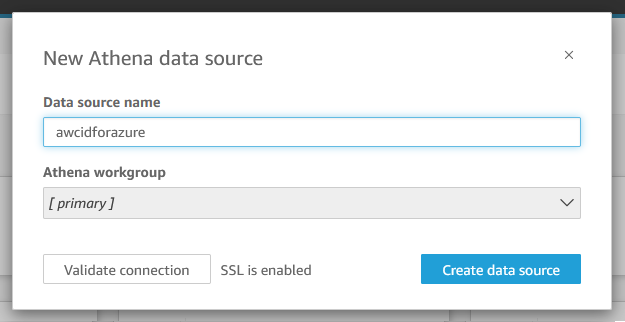
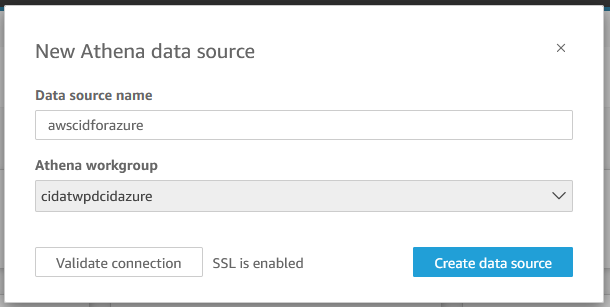
almost finished setup

diff --git a/content/Cost/300_Labs/300_Cloud_Intelligence_Dashboards_for_Azure/2_setup.md b/content/Cost/300_Labs/300_Cloud_Intelligence_Dashboards_for_Azure/2_setup.md
@@ -12,7 +12,7 @@ We've provided a set of deployment templates to speed up the build. Once you com
 The solution you are about to deploy is an example. Use this lab and the accompanying code to design your own solution that meets your specific cost optimization needs.
 {{% /notice %}} 
 
-Deployment is a three stage process. 
+Deployment is a three step process. 
 
 1. Deploy AWS services
 2. Perform a manual run to copy the first batch of data
@@ -20,8 +20,8 @@ Deployment is a three stage process.
 
 There are 2 **(Options)** to deploy AWS Services. Pick the one that suits you.
 
-1. [**AWS CloudFormation**](#CloudFormation-Deployment). We'll guide you through the setup step by step. You will need to setup Azure resources prior to deployment.
-2. [**Hashicorp Terraform**](#terraform-deployment). You will need to be familiar with Terraform and have an existing deployment pipeline. We include an example template showing you how to deploy Azure resources.
+1. [**AWS CloudFormation**](#step-1-option-1-cloudformation-deployment). We'll guide you through the setup step by step. You will need to setup Azure resources prior to deployment.
+2. [**Hashicorp Terraform**](#step-1-option-2-terraform-deployment). You will need to be familiar with Terraform and have an existing deployment pipeline. We include an example template showing you how to deploy Azure resources.
 
 {{% notice note %}}
 If you encounter any errors with the tasks below, head over to the [Observability and Troubleshooting](../3_common_tasks)section.
@@ -39,7 +39,7 @@ If you encounter any errors with the tasks below, head over to the [Observabilit
 * **cid-azure-stack.yaml** CloudFormation template.
 * **cid-azure-dashboard.yaml** Sample QuickSight dashboard
 
-2. Place the files in a new Amazon S3 bucket. CloudFormation will access these files during deployment. Don't use the name in the screenshot below, someone's probably already grabbed it! S3 bucket names need to be globally unique.
+2. Place the files in a new Amazon S3 bucket. CloudFormation will access these files during deployment. Don't use the name in the screenshot below, someone's probably already grabbed it and S3 bucket names need to be globally unique.
 ![Images/cidazure-setup-cfn-s3source](/Cost/300_Cloud_Intelligence_Dashboard_for_Azure/Images/cidazure-setup-cfn-s3source.png?width=1000px)
 
 3. Click into **cid-azure-stack-yaml** and grab the Object URL. You'll need this a moment.
@@ -54,7 +54,7 @@ If you encounter any errors with the tasks below, head over to the [Observabilit
 6. Paste in the Object URL you grabbed earlier into the **Amazon S3 URL** field. Click **Next**
 ![Images/cidazure-setup-cfn-template](/Cost/300_Cloud_Intelligence_Dashboard_for_Azure/Images/cidazure-setup-cfn-template.png?width=1000px)
 
-7. Give the stack a name. The S3 bucket created by the stack will start with the name you enter here, so enter something similar to customer code.
+7. Give the stack a name. An S3 bucket will be created by the stack and start with the name you enter here.
 ![Images/cidazure-setup-cfn-stackname](/Cost/300_Cloud_Intelligence_Dashboard_for_Azure/Images/cidazure-setup-cfn-stackname.png?width=1000px)
 
 8. Let's set values for our parameters. Fill in the **Common Settings** section. Refer to the [Parameters](#parameters) section for guidance.
@@ -79,7 +79,7 @@ If you encounter any errors with the tasks below, head over to the [Observabilit
 16. The deployment will run for a few minutes. Once deployment is complete, you'll see a *CREATE_COMPLETE* message.
 ![Images/cidazure-setup-cfn-stackcomplete](/Cost/300_Cloud_Intelligence_Dashboard_for_Azure/Images/cidazure-setup-cfn-stackcomplete.png?width=1000px)
 
-Great job, you've completed the setup! Now move onto [Manual Run](#manual-run)
+Great job, you've completed the setup! Now move onto [Manual Run](#step-2-initial-manual-run)
 {{% /expand%}}
 
 ### Step 1 (Option-2) Terraform Deployment
@@ -94,7 +94,7 @@ Great job, you've completed the setup! Now move onto [Manual Run](#manual-run)
 * **cid-azure-stack.yaml** CloudFormation template.
 * **cid-azure-dashboard.yaml** Sample QuickSight dashboard
 
-Great job, you've completed the setup! Now move onto [Manual Run](#manual-run)
+Great job, you've completed the setup! Now move onto [Manual Run](#step-2-initial-manual-run)
 
 {{% /expand%}}
 
@@ -102,7 +102,7 @@ Great job, you've completed the setup! Now move onto [Manual Run](#manual-run)
 {{%expand "Click to expand" %}}
 The solution runs automatically at the scheduled times you set in your deployment parameters. When you first deploy you may want to visualize your data straight away. If you've had enough for today and want to stop, feel free to come back tomorrow, this part should complete automatically.
 
-As part of the deployment we created a Resource Group to organize our resources into a single view. This will help you identify resources that were created should you get stuck. To view the Resource Group, browse to the **AWS Resource Groups & Tag Editor service**.
+As part of the deployment we created a Resource Group to organize our resources into a single view. This will help you identify resources that were created should you get stuck. To view the Resource Group, browse to the **AWS Resource Groups & Tag Editor** service.
 ![Images/cidazure-setup-manual-resourcegroup](/Cost/300_Cloud_Intelligence_Dashboard_for_Azure/Images/cidazure-setup-manual-resourcegroup.png?width=600px)
 
 Follow the instructions below to start a manual run.
@@ -148,6 +148,7 @@ Awesome! You've completed the manual run, let's move onto [Dashboard Deployment.
 
 ### Step 3 Dashboard Deployment
 {{%expand "Click to expand" %}}
+
 First up we need to create our Amazon Athena view. 
 
 1. Browse to the **Amazon Athena** service.
@@ -162,7 +163,7 @@ First up we need to create our Amazon Athena view.
 4. Click the **Run** button to run the query. Once complete a new Athena view will be created.
 ![Images/cidazure-setup-dashboard-athenarun](/Cost/300_Cloud_Intelligence_Dashboard_for_Azure/Images/cidazure-setup-dashboard-athenarun.png?width=1000px)
 
-Next let's create our QuickSight dataset.
+Next, let's create our QuickSight dataset.
 
 5. Head over to the **QuickSight** service and select **Datasets**. Click the **New dataset** button
 ![Images/cidazure-setup-dashboard-qsnewdataset](/Cost/300_Cloud_Intelligence_Dashboard_for_Azure/Images/cidazure-setup-dashboard-qsnewdataset.png?width=1000px)
@@ -170,35 +171,87 @@ Next let's create our QuickSight dataset.
 6. Select **Athena** as the Data Source
 ![Images/cidazure-setup-dashboard-qsselectathena](/Cost/300_Cloud_Intelligence_Dashboard_for_Azure/Images/cidazure-setup-dashboard-qsselectathena.png?width=1000px)
 
-7. Give the Data source a name, leave Athena workgroup as *primary* and click **Create data source**.
+7. Give the Data source a name, select the Athena workgroup created by your deployment and click **Create data source**.
 ![Images/cidazure-setup-dashboard-qscreatedata](/Cost/300_Cloud_Intelligence_Dashboard_for_Azure/Images/cidazure-setup-dashboard-qscreatedata.png?width=500px)
 
 8. Select the Glue database created by your deployment and relevant table which will end in *athena_view*. Then click **Edit/Preview data**
 ![Images/cidazure-setup-dashboard-qschoosetable](/Cost/300_Cloud_Intelligence_Dashboard_for_Azure/Images/cidazure-setup-dashboard-qschoosetable.png?width=500px)
 
-9. Check your data appears along with any tag columns you specified. Once done, set the **Query mode to SPICE** and click **save & publish button**.
+9. Check your data appears along with any tag columns you specified. Once done, set the **Query mode to SPICE** and click **save & publish button**. We use Spice to minimize the loading times for visuals.
 
 ![Images/cidazure-setup-dashboard-qssave](/Cost/300_Cloud_Intelligence_Dashboard_for_Azure/Images/cidazure-setup-dashboard-qssave.png?width=1000px)
 
-OK, nice, we've got data, but need visuals! We've created a sample dashboard to get you started. We'll use the [**cid-cmd**](https://github.com/aws-samples/aws-cudos-framework-deployment#demo) utility to import the dashboard template into your account. You'll need to run a few bash commands, but it's much quicker than other methods.
+Let's set a daily refresh for Spice to make sure you have the most up-to-date visualization.
 
-8. In the AWS Console, browse to the **AWS CloudShell** service.
+10. Click the QuickSight icon in the top left to get back to the main menu. Select **Datasets** 
+![Images/cidazure-setup-dashboard-qsstartspice](/Cost/300_Cloud_Intelligence_Dashboard_for_Azure/Images/cidazure-setup-dashboard-qsstartspice.png?width=1000px)
+
+11. Click the dataset you just created, then click the **Refresh** tab. 
+![Images/cidazure-setup-dashboard-qsspicerefresh](/Cost/300_Cloud_Intelligence_Dashboard_for_Azure/Images/cidazure-setup-dashboard-qsspicerefresh.png?width=1000px)
+
+12. Click the **ADD NEW SCHEDULE** button, Select **Full refresh** and click **SAVE**
+![Images/cidazure-setup-dashboard-qsspiceschedule](/Cost/300_Cloud_Intelligence_Dashboard_for_Azure/Images/cidazure-setup-dashboard-qsspiceschedule.png?width=500px)
+
+OK, nice, we've got data, but need visuals! We've created a sample dashboard to get you started. We'll use the [**cid-cmd**](https://github.com/aws-samples/aws-cudos-framework-deployment#demo) utility to import a template into your account. You'll need to run a few commands, but it's much quicker than other methods.
+
+13. Head back to the AWS Console, browse to the **AWS CloudShell** service.
 ![Images/cidazure-setup-dashboard-cloudshell](/Cost/300_Cloud_Intelligence_Dashboard_for_Azure/Images/cidazure-setup-dashboard-cloudshell.png?width=1000px)
 
-9. Install the latest pip package by running the following command: `python3 -m ensurepip --upgrade`
+14. Wait until you see a command prompt. Install the latest pip package by running the following command: `python3 -m ensurepip --upgrade`
 
-10. Install cid-cmd using the following command: `pip3 install -U git+https://github.com/aws-samples/aws-cudos-framework-deployment.git@export-views`
+15. Install cid-cmd using the following command: `pip3 install -U git+https://github.com/aws-samples/aws-cudos-framework-deployment.git@export-views`
 ![Images/cidazure-setup-dashboard-cidcmdinstall](/Cost/300_Cloud_Intelligence_Dashboard_for_Azure/Images/cidazure-setup-dashboard-cidcmdinstall.png?width=1000px)
 
-11. Run CHANGE TO GITHUB `aws s3 cp s3://SOURCEBUCKET/CloudIntelligenceDashboardforAzure.yaml  /tmp/CloudIntelligenceDashboardforAzure.yaml`. This will copy the QuickSight Dashboard template to CloudShell. Replace **SOURCEBUCKET** with the name of your Source Bucket. This is the name of the bucket you uploaded the source files to way back at the start of the lab.
+16. Run `aws s3 cp s3://SOURCEBUCKET/CloudIntelligenceDashboardforAzure.yaml  /tmp/CloudIntelligenceDashboardforAzure.yaml`. This will copy the QuickSight Dashboard template to CloudShell. Replace **SOURCEBUCKET** with the name of your Source Bucket. This is the name of the bucket you uploaded the source files to way back at the start of the lab. In the screenshot below our bucket is called *awscidforazuresourcecode*
 ![Images/cidazure-setup-dashboard-s3tocloudshell](/Cost/300_Cloud_Intelligence_Dashboard_for_Azure/Images/cidazure-setup-dashboard-s3tocloudshell.png?width=1000px)
 
-12. RAW GITHUB LINKStart the import process by running `cid-cmd deploy --resources /tmp/CloudIntelligenceDashboardforAzure.yaml`. Choose *cloudintelligencedashboardforazure* from the dashboard selection list.
-![Images/cidazure-setup-dashboard-cidcmd1](/Cost/300_Cloud_Intelligence_Dashboard_for_Azure/Images/cidazure-setup-dashboard-cidcmd1.png?width=1000px)
+17. Start the import process by running `cid-cmd deploy --resources /tmp/CloudIntelligenceDashboardforAzure.yaml`. Use the arrow keys on your keyboard to select *cloudintelligencedashboardforazure* from the dashboard selection list.
+![Images/cidazure-setup-dashboard-cidcmd2](/Cost/300_Cloud_Intelligence_Dashboard_for_Azure/Images/cidazure-setup-dashboard-cidcmd2.png?width=1000px)
 
-13. Select the Athena WorkGroup 
+18. Select the **Athena WorkGroup** created by your deployment. In our example we used *cid* as the customer code and the resource id is *atw*
+![Images/cidazure-setup-dashboard-cidcmd3](/Cost/300_Cloud_Intelligence_Dashboard_for_Azure/Images/cidazure-setup-dashboard-cidcmd3.png?width=600px)
 
-image.png
+19. Select the **Glue database** created by your deployment. In our example we used *cid* as the customer code and the resource id is *gld*
+![Images/cidazure-setup-dashboard-cidcmd4](/Cost/300_Cloud_Intelligence_Dashboard_for_Azure/Images/cidazure-setup-dashboard-cidcmd4.png?width=600px)
+
+20. If all goes well you will receive the prestigious **Congratulations!** message. You can choose to share the dashboard with everyone in your QuickSight account or not.
+![Images/cidazure-setup-dashboard-cidcmd5](/Cost/300_Cloud_Intelligence_Dashboard_for_Azure/Images/cidazure-setup-dashboard-cidcmd5.png?width=600px)
+
+Great we have a Dashboard, but we cant edit this and it's got no data. Lets save it as a QuickSight Analysis and change the dataset. 
+
+21.  Headback to QuickSight and click on Dashboards. You should see the Cloud Intelligence Dashboard for Azure. 
+![cidazure-setup-dashboard-appears](/Cost/300_Cloud_Intelligence_Dashboard_for_Azure/Images/cidazure-setup-dashboard-appears.png?width=600px)
+
+22. Click on it to load. There is no data at present because it is connected to the wrong QuickSight dataset. Click the **Share** icon on the top right. Then click **Share dashboard**
+![cidazure-setup-dashboard-share](/Cost/300_Cloud_Intelligence_Dashboard_for_Azure/Images/cidazure-setup-dashboard-share.png?width=1000px)
+
+23. Toggle the **save as** switch to om and click **Go back to CloudIntelligenceDashboardforAzure**
+![cidazure-setup-dashboard-saveas](/Cost/300_Cloud_Intelligence_Dashboard_for_Azure/Images/cidazure-setup-dashboard-saveas.png?width=1000px)
+
+24. Refresh your web browser and you should see a new *save as* icon appear, It looks like a floppy disk (if you remember those). 
+![cidazure-setup-dashboard-floppy](/Cost/300_Cloud_Intelligence_Dashboard_for_Azure/Images/cidazure-setup-dashboard-floppy.png?width=1000px)
+
+25. Click to save the dashboard as a QuickSight analysis. Give it a name and click **SAVE**
+![cidazure-setup-dashboard-saveanalysis](/Cost/300_Cloud_Intelligence_Dashboard_for_Azure/Images/cidazure-setup-dashboard-saveanalysis.png?width=600px)
+
+26. Click the **pencil icon** next to Dataset
+![cidazure-setup-dashboard-pencil](/Cost/300_Cloud_Intelligence_Dashboard_for_Azure/Images/cidazure-setup-dashboard-pencil.png?width=600px)
+
+27. Click the resulting dialogu box, click the 3 dots and **Replace**
+![cidazure-setup-dashboard-pencil](/Cost/300_Cloud_Intelligence_Dashboard_for_Azure/Images/cidazure-setup-dashboard-pencil.png?width=600px)
+
+28. Choose your Athena view and click **Select**
+![cidazure-setup-dashboard-replace](/Cost/300_Cloud_Intelligence_Dashboard_for_Azure/Images/cidazure-setup-dashboard-replace.png?width=600px)
+
+29. At this point you may need to do some field matching. We built the analysis using the MCA data schema. If you have an Enterprise Agreement map **CostinBillingCurrency** to **Cost**.
+
+30. Once you're done click the Update field mapping button, close the dataset dialogue box and marvel at your new analysis!
+
+Just a few things to tidy up before we finish...
+
+31. Head back to Datasets and delete the Template dataset.
+
+32. Open Athena and delete the Template athena view.
 
 Nice work, you've completed the setup :). Check out the [Common Tasks](../3_common_tasks)section to customize your solution.
 

diff --git a/content/Cost/300_Labs/300_Cloud_Intelligence_Dashboards_for_Azure/1_solution_design.md b/content/Cost/300_Labs/300_Cloud_Intelligence_Dashboards_for_Azure/1_solution_design.md
@@ -78,8 +78,8 @@ All resources created by the automated deployment follow a standard naming patte
 
 As with most rules, there are a few exceptions.
 
-1. If you deploy the solution with CloudFormation your S3 bucket will be named **stack name**-s3bucket-**unique id**
-2. System Center parameters start with **cidazure-var**.
+1. If you deploy the solution using CloudFormation your S3 bucket will be named **stack name**-s3bucket-**unique id**
+2. Systems Manager parameters start with **cidazure-var**.
 
 |AWS Resource ID|Description|
 |-|-|
@@ -105,7 +105,7 @@ As with most rules, there are a few exceptions.
 ### High Level Diagram
 
 The diagram below shows you how AWS service interact and how AWS communicates with Azure. Arrows indicate the direction of invocation. Notice that we haven't included Cloudwatch and KMS, which are used throughout the solution.
-![Images/cidazure-midlevel.png](/Cost/300_Cloud_Intelligence_Dashboard_for_Azure/Images/cidazure-midlevel.png)
+![Images/cidazure-midlevel.png](/Cost/300_Cloud_Intelligence_Dashboard_for_Azure/Images/cidazure-midlevel.png?width=1000px)
 
 |Step|Description|
 |-|-|
@@ -115,7 +115,7 @@ The diagram below shows you how AWS service interact and how AWS communicates wi
 |4|Lambda functions requests an OAUTH token from Azure Active Directory over HTTPS.|
 |5|Lambda functions interact with Azure blob storage over HTTPS.|
 |6|Lambda functions download CSV files to the S3 *azurecidraw* folder. It's not really a folder, but let's pretend it is!|
-|7|A Glue schedule triggers the Glue job|
+|7|A Glue schedule triggers the Glue job.|
 |8|The Glue job queries System Manager Parameter store to get values used by the job. E.g. S3 bucket name. This is part of CloudFormation deployments only.|
 |9|The Glue job loads data from the S3 *azurecidraw* folder.|
 |10|The Glue job adds new columns, changes data field types and transforms the data from CSV to Parquet format. The Parquet files are stored in the S3 *azurecidparquet* folder.|
@@ -127,10 +127,10 @@ The diagram below shows you how AWS service interact and how AWS communicates wi
 ### Lambda blob copy stack 
 
 Let's zoom in on the Lambda functions and SNS topics. Each function is a discrete piece of code that performs a specific function. The functions use SNS to talk to each other. All functions are written in Python.
-![Images/cidazure-lambda.png](/Cost/300_Cloud_Intelligence_Dashboard_for_Azure/Images/cidazure-lambda.png)
+![Images/cidazure-lambda.png](/Cost/300_Cloud_Intelligence_Dashboard_for_Azure/Images/cidazure-lambda.png?width=1000px)
 
 Lambda functions 04, 05 and 06 are used to download large files. They take advantage of Amazon S3's multipart download option to accelerate file transfer.
-![Images/cidazure-lambda-filesize.png](/Cost/300_Cloud_Intelligence_Dashboard_for_Azure/Images/cidazure-lambda-filesize.png)
+![Images/cidazure-lambda-filesize.png](/Cost/300_Cloud_Intelligence_Dashboard_for_Azure/Images/cidazure-lambda-filesize.png?width=1000px)
 
 ### Other Design Components
 

diff --git a/content/Cost/300_Labs/300_Cloud_Intelligence_Dashboards_for_Azure/4_clean_up.md b/content/Cost/300_Labs/300_Cloud_Intelligence_Dashboards_for_Azure/4_clean_up.md
@@ -16,11 +16,9 @@ Once you finish the lab, follow the instructions below to remove all resources.
 {{%expand "Click to expand" %}}
 
 1. Before we delete the CloudFormation stack, let's delete the S3 bucket. Browse to Amazon S3
-
 ![Images/cidazure-cleanup-cfn-s3](/Cost/300_Cloud_Intelligence_Dashboard_for_Azure/Images/cidazure-cleanup-cfn-s3.png?width=1000px)
 
-2. Open the S3 bucket created during the deployment and check it's contents. You may wish to retain the processed CSV files for future use. Remember each time they are pulled, Azure data egress charges apply. If you wish to retain the files move the *azurecidprocessed* folder to another S3 bucket.
-
+2. Open the S3 bucket created during the deployment and check it's contents. You may wish to retain the processed CSV files for future use. Remember Azure data egress charges apply each time they are pulled. If you wish to retain the files move the *azurecidprocessed* folder to another S3 bucket.
 ![Images/cidazure-cleanup-cfn-s3move](/Cost/300_Cloud_Intelligence_Dashboard_for_Azure/Images/cidazure-cleanup-cfn-s3move.png?width=1000px)
 
 3. When you are ready, select the S3 bucket created by your deployment and click **Empty**
@@ -34,8 +32,10 @@ Once you finish the lab, follow the instructions below to remove all resources.
 6. Browse to the CloudFormation service.
 ![Images/cidazure-setup-cfn-browse](/Cost/300_Cloud_Intelligence_Dashboard_for_Azure/Images/cidazure-setup-cfn-browse.png?width=1000px)
 
-7. Select the Stack and click **Delete**. Acknowledge your action and click **Delete Stack**
-![Images/cidazure-cleanup-cfn-delete](/Cost/300_Cloud_Intelligence_Dashboard_for_Azure/Images/cidazure-cleanup-cfn-delete.png?width=1000px)
+7. If you plan to redeploy, take a copy of the parameters tab before we delete.
+![Images/cidazure-cleanup-cfn-parameters](/Cost/300_Cloud_Intelligence_Dashboard_for_Azure/Images/cidazure-cleanup-cfn-parameters.png?width=1000px)
+
+7. Once you're ready, click **Delete**. Acknowledge your action and click **Delete Stack**
 
 8. Click into the Stack and click the **Events** tab to view progress.
 ![Images/cidazure-cleanup-cfn-s3deleteprog](/Cost/300_Cloud_Intelligence_Dashboard_for_Azure/Images/cidazure-cleanup-cfn-s3deleteprog.png?width=1000px)
